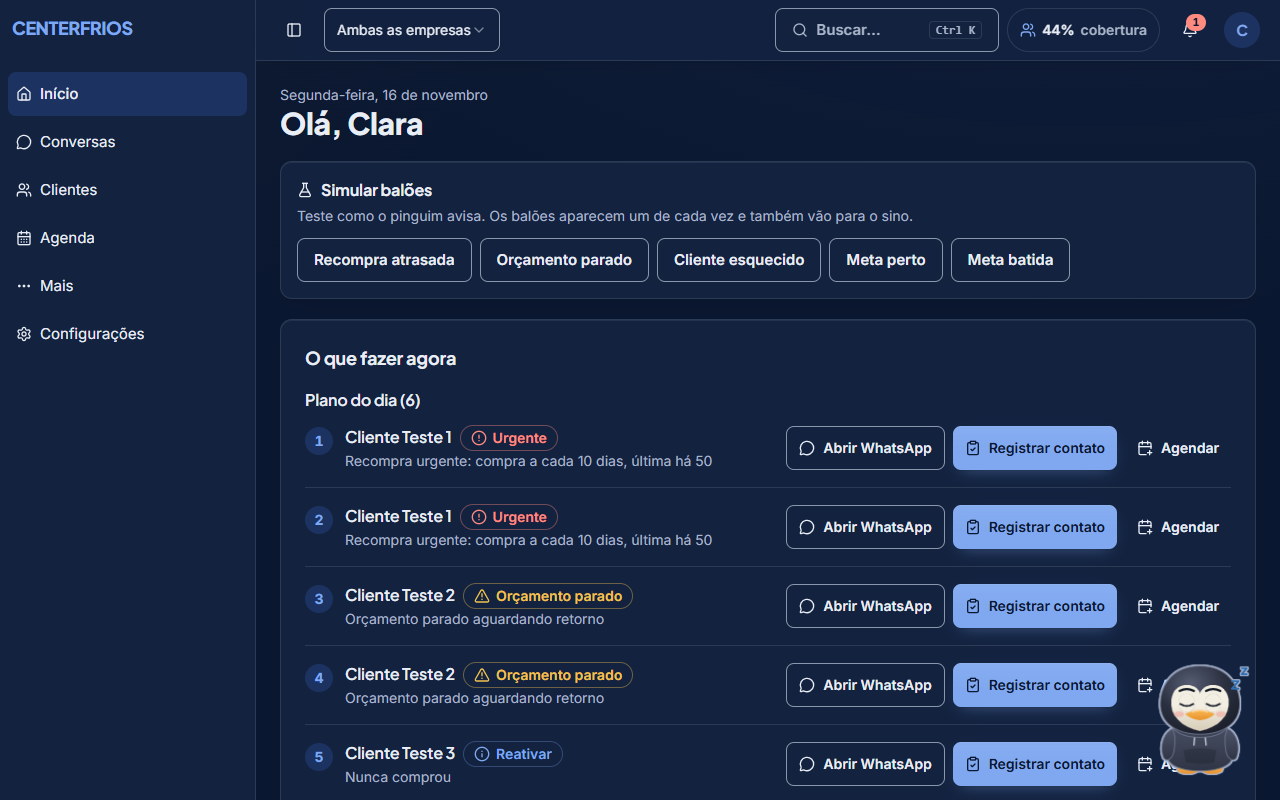
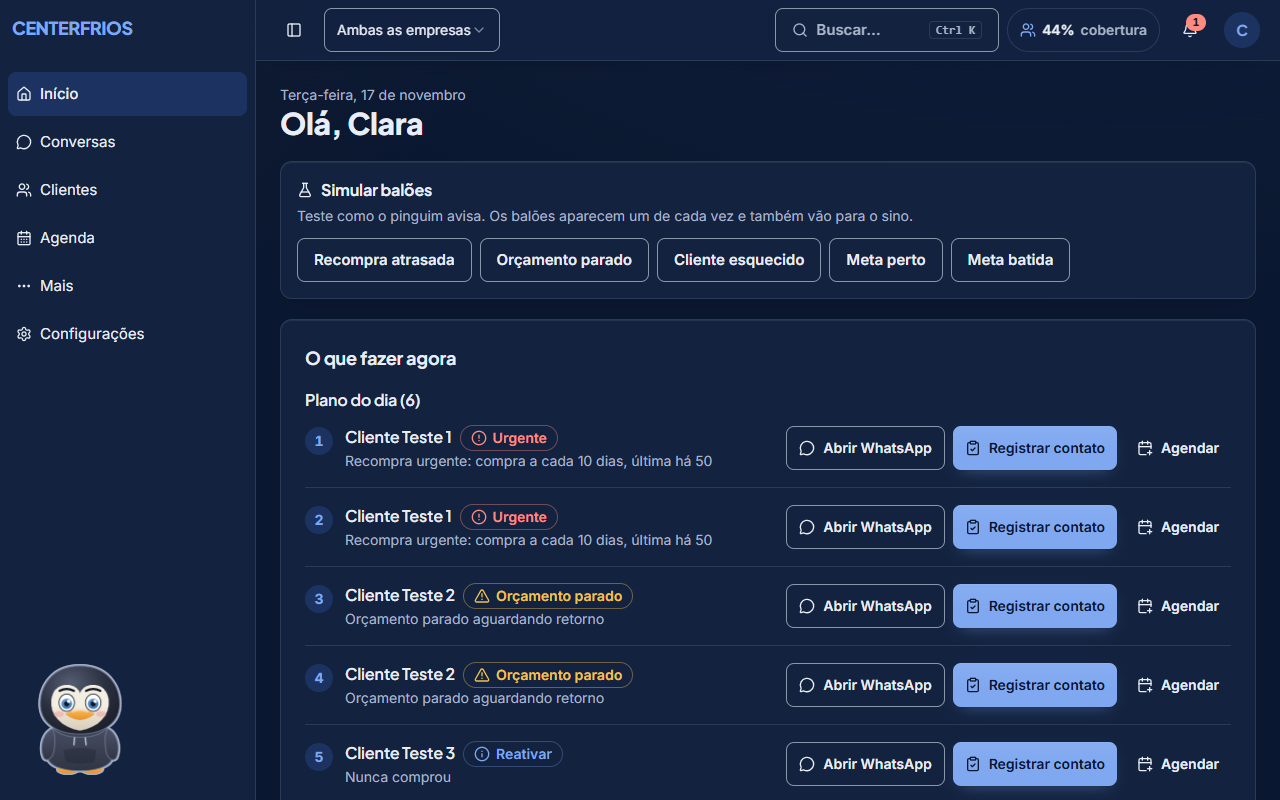
Mascote: canto padrão no desktop passa a ser o inferior esquerdo, para não cobrir o Agendar das listas

Changed region(s): [[0.9062, 0.8125, 0.9688, 0.9688], [0.0312, 0.8125, 0.0938, 0.9688], [0.2188, 0.0938, 0.375, 0.125]]

diff --git a/src/modulos/mascote/dados.ts b/src/modulos/mascote/dados.ts
@@ -105,7 +105,12 @@ export function usePreferenciasMascote(usuarioId: string | undefined) {
     try {
       const salvo = JSON.parse(localStorage.getItem(chave) ?? "{}");
       setPrefs({
-        canto: cantoValido(salvo.canto),
+        // Sem escolha salva: no desktop fica à esquerda, sobre o rodapé vazio do menu lateral,
+        // para não cobrir as ações à direita das listas (ex.: "Agendar" no Início).
+        canto: cantoValido(
+          salvo.canto ??
+            (matchMedia("(min-width: 768px)").matches ? "inferior-esquerdo" : PADRAO.canto),
+        ),
         minimizado: salvo.minimizado === true,
         baloesOcultos: salvo.baloesOcultos === true,
         somMudo: salvo.somMudo === true,

diff --git a/e2e/mascote.spec.ts b/e2e/mascote.spec.ts
@@ -56,7 +56,9 @@ test("arrastar encaixa no canto mais próximo, sem sair da tela, e lembra a posi
   page,
 }) => {
   await abrir(page);
-  await expect(caixa(page)).toHaveAttribute("data-canto", "inferior-direito");
+  // Padrão: à esquerda no desktop (não cobre as ações das listas), à direita no celular.
+  const padrao = page.viewportSize()!.width >= 768 ? "inferior-esquerdo" : "inferior-direito";
+  await expect(caixa(page)).toHaveAttribute("data-canto", padrao);
   const b = (await mascote(page).boundingBox())!;
   await page.mouse.move(b.x + b.width / 2, b.y + b.height / 2);
   await page.mouse.down();

diff --git a/docs/relatorio-visual-fable.md b/docs/relatorio-visual-fable.md
@@ -62,4 +62,4 @@ O LCP do teste é do servidor de desenvolvimento com CPU 4× lenta e compila na 
 
 - Medir LCP/INP no app publicado (campo), não só no servidor de desenvolvimento.
 - Teste de arrastar do mascote instável (já na `main`).
-- Mascote flutuante cobre o "Agendar" da primeira linha do Início no desktop; dá para arrastar, mas vale rever o canto padrão.
+- ~~Mascote flutuante cobre o "Agendar" no Início no desktop.~~ Resolvido: sem canto salvo, o padrão no desktop (≥ 768 px) passou a ser o inferior esquerdo, sobre o rodapé vazio do menu lateral (`modulos/mascote/dados.ts`; a regra `cantoValido` não mudou). No celular segue o inferior direito, porque à esquerda ficam os botões "Abrir WhatsApp". Quem já arrastou continua onde deixou.
